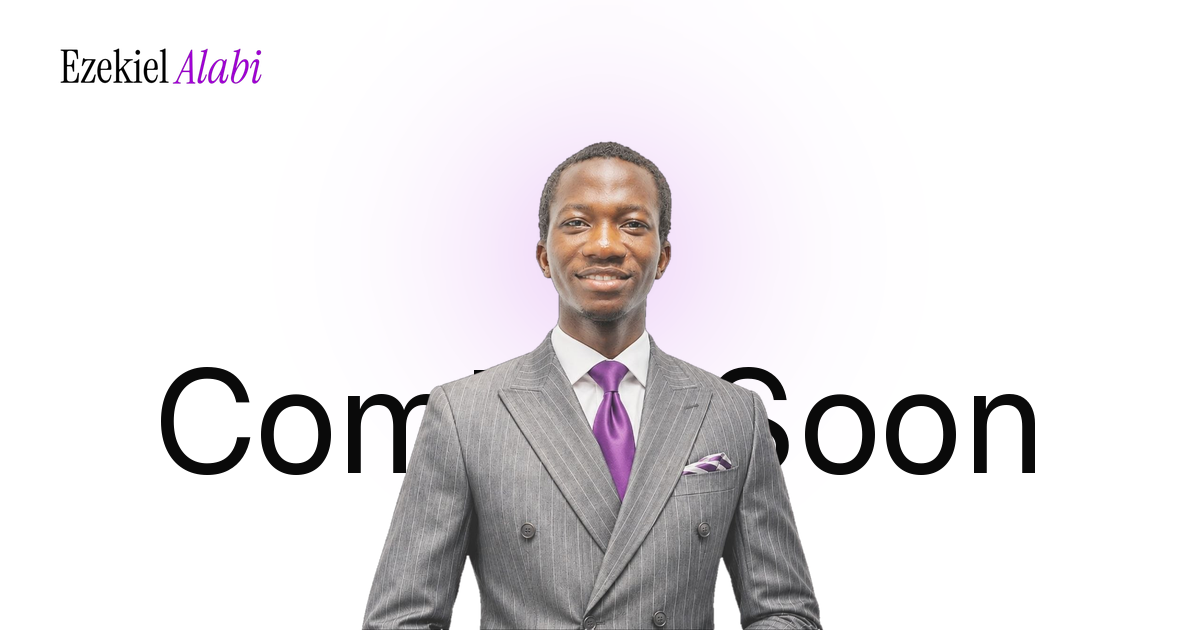
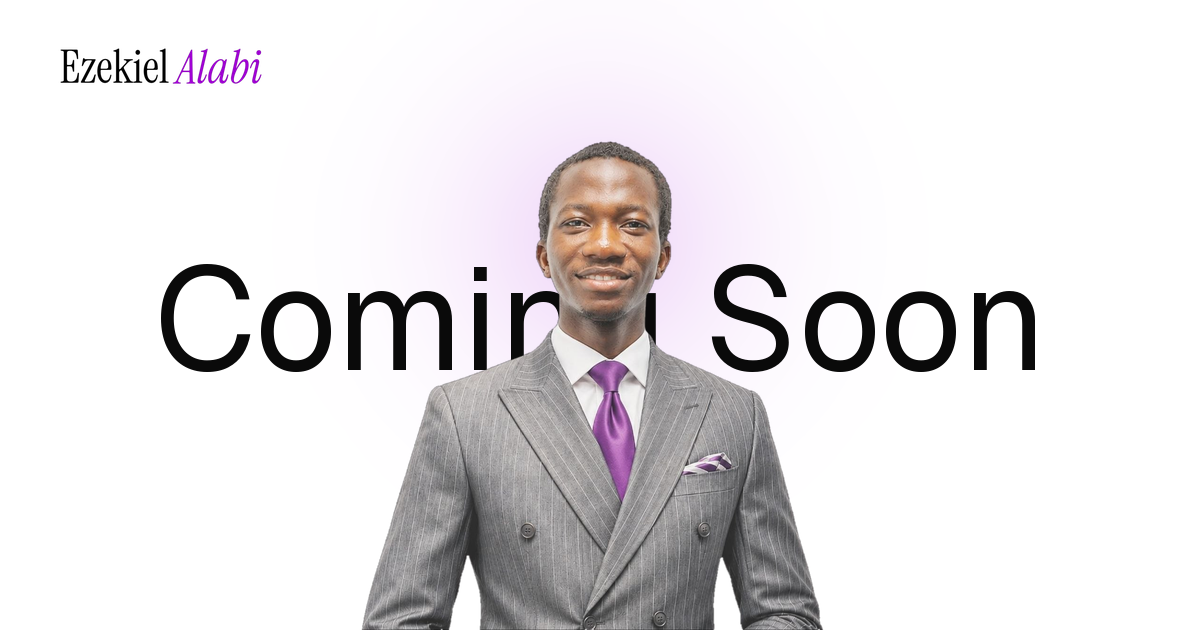
style: position desktop headline just below ear, and center mobile headline in front on one line

Changed region(s): [[0.1233, 0.4222, 0.4625, 0.754], [0.5858, 0.4222, 0.8633, 0.754], [0.5242, 0.4524, 0.555, 0.5429]]

diff --git a/app/globals.css b/app/globals.css
@@ -103,13 +103,13 @@ body {
   }
 }
 
-/* Headline: pure all-black, sitting behind the subject (z-index: 1) */
+/* Headline: pure all-black, sitting behind the subject on desktop starting just below ear */
 .headline {
   position: absolute;
   z-index: 1;
   left: 0;
   right: 0;
-  top: 57%;
+  top: 47%;
   transform: translateY(-50%);
   margin: 0;
   text-align: center;
@@ -136,7 +136,7 @@ body {
   }
 }
 
-/* Subject: portrait anchored at bottom (z-index: 2) as crisp natural photo */
+/* Subject: portrait anchored at bottom (z-index: 2) */
 .subject {
   position: absolute;
   z-index: 2;
@@ -160,12 +160,20 @@ body {
     width: 145vw;
   }
 
+  /* Centered, one line, in front of the image with soft halo so it's not hidden behind him */
   .headline {
-    white-space: normal;
-    top: 64%;
-    font-size: clamp(3.4rem, 21vw, 6.8rem);
-    line-height: 0.88;
+    z-index: 3;
+    white-space: nowrap;
+    top: 50%;
+    left: 50%;
+    right: auto;
+    transform: translate(-50%, -50%);
+    font-size: clamp(2.3rem, 11vw, 4.2rem);
+    line-height: 1;
     padding-inline: 4vw;
+    text-shadow:
+      0 0 14px rgba(255, 255, 255, 0.95),
+      0 0 28px rgba(255, 255, 255, 0.85);
   }
 }
 

diff --git a/scripts/generate-og.py b/scripts/generate-og.py
@@ -8,7 +8,7 @@ og = Image.new("RGB", (W, H), (255, 255, 255))
 # Atmospheric soft glow
 glow = Image.new("RGBA", (W, H), (0, 0, 0, 0))
 gd = ImageDraw.Draw(glow)
-cx, cy = W // 2, int(H * 0.40)
+cx, cy = W // 2, int(H * 0.38)
 for r in range(350, 0, -5):
     t = 1.0 - (r / 350)
     alpha_val = int(55 * (t ** 1.8))
@@ -28,7 +28,8 @@ bbox = dd.textbbox((0, 0), "Coming Soon", font=font_geist)
 tw = bbox[2] - bbox[0]
 th = bbox[3] - bbox[1]
 tx = (W - tw) // 2
-ty = int(H * 0.52)
+# Raised to start below ear: ~46% of 630 = 290
+ty = int(H * 0.46) - th // 2
 
 # Draw 'Coming Soon' behind portrait in black
 cd = ImageDraw.Draw(og)
